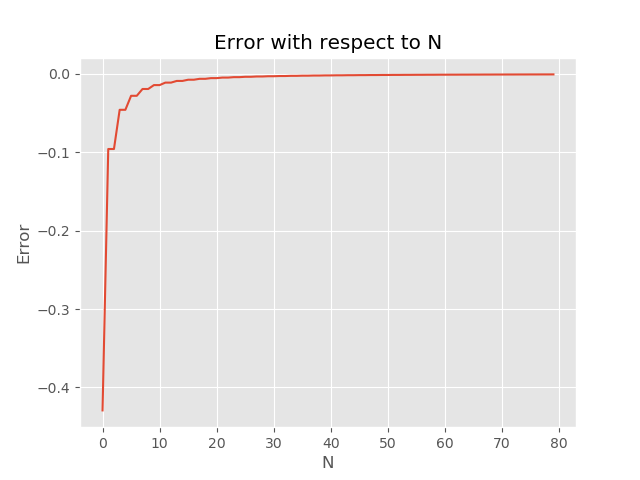
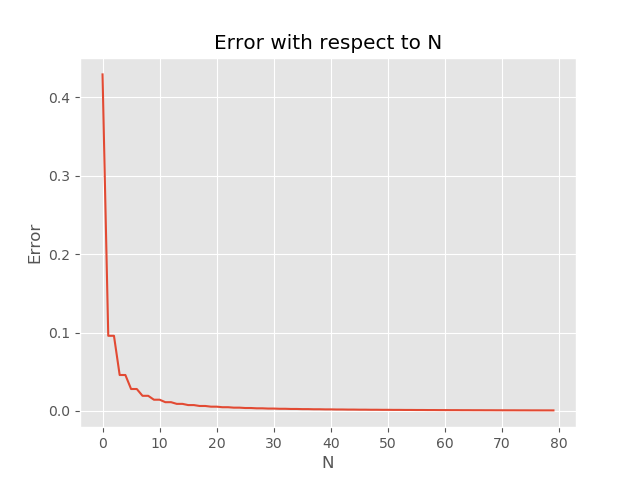
Fjernede blanke sider

diff --git a/incl/main/introTilTaylorRækker.tex b/incl/main/introTilTaylorRækker.tex
@@ -30,11 +30,11 @@ og at dette vil skabe en god approksimation omkring punktet $a$.
     \]
     Når processen gentages $n$ gange opnåes følgende udtryk for $T_f^{(n)}(x)$:
     \[
-        T_f^{n}(x) = f^{(n)}(a) + \frac{f^{(n + 1)}(a)}{1!}(x-a)^{1} + \frac{f^{n + 2}(a)}{2!}(x-a)^{2} + \ldots
+        T_f^{(n)}(x) = f^{(n)}(a) + \frac{f^{(n + 1)}(a)}{1!}(x-a)^{1} + \frac{f^{n + 2}(a)}{2!}(x-a)^{2} + \ldots
     \]
     Da de afledte skal være ens i punktet $a$ indsættes $x = a$:
     \begin{align*}
-        T_f^{n}(a) &= f^{(n)}(a) + \frac{f^{(n + 1)}(a)}{1!}(a-a)^{1} + \frac{f^{(n + 2)}(a)}{2!}(a-a)^{2} + \ldots \\
+        T_f^{(n)}(a) &= f^{(n)}(a) + \frac{f^{(n + 1)}(a)}{1!}(a-a)^{1} + \frac{f^{(n + 2)}(a)}{2!}(a-a)^{2} + \ldots \\
                    &= f^{(n)}(a) + \frac{f^{(n + 1)}(a)}{1!}(0)^{1} + \frac{f^{(n + 2)}(a)}{2!}(0)^{2} + \ldots \\
                    &= f^{(n)}(a)        
     \end{align*}
@@ -115,7 +115,7 @@ Nu beregnes Taylorrækkens radius for konvergens:
 \[
     \frac{1}{R} = \lim_{n \rightarrow \infty} \left\lvert \frac{\frac{(-1)^{(n+2)}}{n+1}}{\frac{(-1)^{(n+1)}}{n}} \right\lvert
 \]
-Da både $\left\lvert -1^{(n+2)} \right\lvert = 1$ og $\left\lvert-1^{(n + 1)} \right\lvert = 1$ må gælde kan utrykket forsimples yderligere
+Da både $\left\lvert -1^{(n+2)} \right\lvert = 1$ og $\left\lvert-1^{(n + 1)} \right\lvert = 1$ må gælde kan utrykket forsimples yderligere da den absolute værdi kan ophæves
 \[
     \frac{1}{R} = \lim_{n \rightarrow \infty} \frac{\frac{1}{n+1}}{\frac{1}{n}} = \lim_{n \rightarrow \infty} \frac{n}{n+1} = 1
 \]

diff --git a/incl/main/kode.tex b/incl/main/kode.tex
@@ -30,4 +30,4 @@ I denne sammenhæng er det også intresant at kigge på fejlen $R$ imellem appro
   \caption{Fejl i forhold til antalet af led $N$}
   \label{fig:FejlIForholdTilN}
 \end{figure}
-Som det kan ses falder fejlen hurtigt i starten når $N$ er lille, men som $N$ vokser flader funktionen ud.
+Som det kan ses falder fejlen hurtigt i starten når $N$ er lille, men som $N$ vokser flader fejlen ud fordi $P_{N-1}(x) \approx P_{N}(x)$ når $N \rightarrow \infty$.

diff --git a/source/pi.py b/source/pi.py
@@ -46,4 +46,4 @@ def plotDifference (xs: np.array, ys: np.array) -> None:
     plt.show()
     
 approximateValues = intergrateTaylor((-1, 1), derivatives[:81], [*range(0, 81, 1)])
-plotDifference(np.arange(0, 80), np.array([np.pi/2 for _ in range(80)]) - np.array(approximateValues))
+plotDifference(np.arange(0, 80), abs(np.array([np.pi/2 for _ in range(80)]) - np.array(approximateValues)))

diff --git a/master.tex b/master.tex
@@ -6,7 +6,7 @@
 
 % Dokumenttypen 'book' er valgt pga. dens mange fleksible indstillinger
 % Se https://tex.stackexchange.com/a/36989/118167
-\documentclass[11pt, a4paper, twoside, openright, danish]{book}
+\documentclass[11pt, a4paper, twoside, openright, danish, openany]{book}
 
 % Variabler, som bruges til automatisk at indsætte titel, forfattere, osv. på
 % forsiden og titelbladet.
